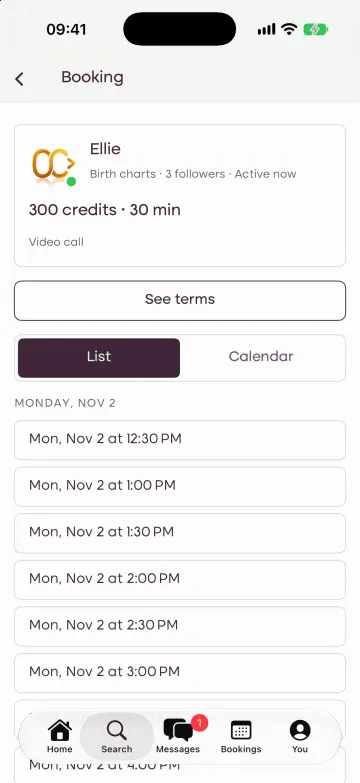
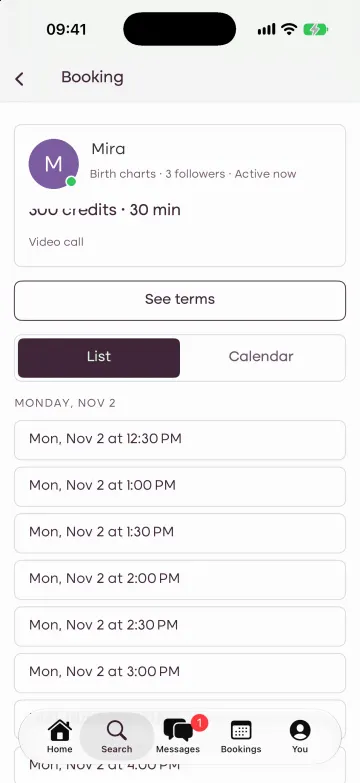
Update multiple screen assets and revise app privacy policy content
Replaced various screen assets in both light and dark themes, including booking, home, personal reading, reader profile, and readers screens. Updated the app privacy policy in English and Burmese to reflect the latest information, including changes to account handling and data sharing practices. Adjusted the SCREENS_VERSION for cache management. These updates aim to enhance visual consistency and ensure compliance with privacy standards.

Changed region(s): [[0.0611, 0.1533, 0.2139, 0.2759], [0.2444, 0.1839, 0.3361, 0.2146]]

diff --git a/src/content/my.js b/src/content/my.js
@@ -84,16 +84,16 @@ export default {
         appPrivacy: {
             title: 'အက်ပ် ကိုယ်ရေးလုံခြုံမှု',
             paragraphs: [
-                'ဒီမူဝါဒက OneZ Codes က လုပ်ဆောင်တဲ့ Lumière iPhone အက်ပ်နဲ့ ဝန်ဆောင်မှုအတွက် ဖြစ်ပါတယ်။ ၁ နိုဝင်ဘာ ၂၀၂၆ မှာ ပြင်ဆင်ထားပါတယ်။ မေးချင်တာ၊ တောင်းဆိုချင်တာ ရှိရင် lumiere@onezcodes.com ကို ဆက်သွယ်ပါ။',
-                'သင့်အကောင့်: username၊ စကားဝှက်နဲ့ ရာသီခွင်ကို သိဖို့ မွေးနေ့။ အီးမေးလ် သို့မဟုတ် ဖုန်းနံပါတ် (ဝင်ရောက်ရန်ကုဒ်နဲ့ စကားဝှက်ပြန်သတ်မှတ်ဖို့)၊ ဇာတာခွင်အတွက် မွေးချိန်နဲ့ မွေးရပ်၊ ပရိုဖိုင်ပုံနဲ့ မိတ်ဆက်စာ ထည့်နိုင်ပါတယ်။ ဧည့်သည်အဖြစ်လည်း စနိုင်ပြီး ဧည့်သည်အကောင့်က သင့်ဖုန်းနဲ့ ချိတ်ထားပါတယ်။',
+                'ဒီမူဝါဒက OneZ Codes က လုပ်ဆောင်တဲ့ Lumière iPhone အက်ပ်နဲ့ ဝန်ဆောင်မှုအတွက် ဖြစ်ပါတယ်။ ၂ နိုဝင်ဘာ ၂၀၂၆ မှာ ပြင်ဆင်ထားပါတယ်။ မေးချင်တာ၊ တောင်းဆိုချင်တာ ရှိရင် lumiere@onezcodes.com ကို ဆက်သွယ်ပါ။',
+                'သင့်အကောင့်: username၊ စကားဝှက်နဲ့ ရာသီခွင်ကို သိဖို့ မွေးနေ့။ အီးမေးလ် သို့မဟုတ် ဖုန်းနံပါတ် (ဝင်ရောက်ရန်ကုဒ်နဲ့ စကားဝှက်ပြန်သတ်မှတ်ဖို့)၊ ဇာတာခွင်အတွက် မွေးချိန်နဲ့ မွေးရပ်၊ ပရိုဖိုင်ပုံနဲ့ မိတ်ဆက်စာ ထည့်နိုင်ပါတယ်။ Apple၊ Google သို့မဟုတ် Facebook နဲ့ ဆက်လုပ်ရင် အဲဒီကနေ အကောင့် id နဲ့ သူတို့ မျှဝေရင် နာမည်နဲ့ အီးမေးလ်ကို ရပါတယ်။ အဲဒီအကောင့်တွေရဲ့ စကားဝှက်ကို ဘယ်တော့မှ မရပါ။ ဧည့်သည်အဖြစ်လည်း စနိုင်ပြီး ဧည့်သည်အကောင့်က သင့်ဖုန်းနဲ့ ချိတ်ထားပါတယ်။',
                 'အက်ပ်ထဲမှာ သင်ဖန်တီးတာတွေ: ပို့စ်၊ မှတ်ချက်၊ စာနဲ့ အသံစာ၊ တင်တဲ့ဓာတ်ပုံ၊ ဗေဒင်ဆရာဆီ ပို့တဲ့မေးခွန်း၊ အမြန်မေးခွန်းအဖြေ၊ ဖူးစာစစ်ချက်၊ ဂိမ်းအဖြေနဲ့ အကြံပြုချက်။ ဗေဒင်ဆရာတွေရဲ့ ပရိုဖိုင်၊ ဈေးနှုန်းနဲ့ ငွေလက်ခံမယ့် ဘဏ် သို့မဟုတ် wallet အချက်အလက်ကိုလည်း ငွေပေးချေဖို့ သိမ်းထားပါတယ်။',
                 'ငွေကြေး: ဝယ်ယူ၊ သုံးစွဲ၊ ရရှိ၊ ပြန်အမ်းထားတဲ့ credit၊ အစီအစဉ်၊ လက်ဆောင်ကတ်နဲ့ ကူပွန်။ ဘဏ်လွှဲနဲ့ ပေးချေရင် ဝန်ထမ်းက အတည်ပြုနိုင်ဖို့ တင်ထားတဲ့ ငွေလွှဲပြေစာပုံကို သိမ်းပါတယ်။ ကတ်နံပါတ်ကို ဘယ်တော့မှ မမြင်၊ မသိမ်းပါ။',
-                'သင့်ဖုန်းနဲ့ အက်ပ်သုံးပုံ: အက်ပ်အမျိုးအစားနဲ့ ဗားရှင်း၊ iOS ဗားရှင်း၊ အက်ပ်က ဖန်တီးတဲ့ စက် id၊ အက်ပ်ဖွင့်ချိန်၊ ဝင်ရောက်ချိန်၊ ပြင်ဆင်ချိန်နဲ့ အဲဒီတောင်းဆိုမှုတွေရဲ့ IP လိပ်စာ။ အကောင့်လုံခြုံဖို့၊ အလွဲသုံးမှု တားဖို့၊ ဖုန်းတစ်လုံးကို အစမ်းအပတ်တစ်ခုပဲ ပေးဖို့နဲ့ ပြဿနာပြင်ဖို့ သုံးပါတယ်။ ဒီမှတ်တမ်းကို ရက် ၃၆၅ ရက်အထိ သိမ်းပါတယ်။',
+                'သင့်ဖုန်းနဲ့ အက်ပ်သုံးပုံ: အက်ပ်အမျိုးအစားနဲ့ ဗားရှင်း၊ iOS ဗားရှင်း၊ အက်ပ်က ဖန်တီးတဲ့ စက် id၊ အသိပေးချက် ခွင့်ပြုရင် push token၊ အက်ပ်ဖွင့်ချိန်၊ ဝင်ရောက်ချိန်၊ ပြင်ဆင်ချိန်နဲ့ အဲဒီတောင်းဆိုမှုတွေရဲ့ IP လိပ်စာ။ အကောင့်လုံခြုံဖို့၊ အလွဲသုံးမှု တားဖို့၊ ဖုန်းတစ်လုံးကို အစမ်းအပတ်တစ်ခုပဲ ပေးဖို့နဲ့ ပြဿနာပြင်ဖို့ သုံးပါတယ်။ ဒီမှတ်တမ်းကို ရက် ၃၆၅ ရက်အထိ သိမ်းပါတယ်။',
                 'AI နဲ့ ရေးတဲ့ ဟောစာတမ်း: ကိုယ်ပိုင်ဟောစာတမ်း၊ ဇာတာနဲ့ ဖူးစာဟောစာတမ်း၊ နေ့စဉ်ပို့စ်တွေ ရေးဖို့ လိုအပ်တဲ့ အချက်အလက် (မွေးနေ့၊ ရာသီ၊ ဂြိုဟ်တည်နေရာနဲ့ သင့်အဖြေတွေ စသည်) ကို OpenAI သို့မဟုတ် Anthropic ဆီ ပို့ပြီး သူတို့က ကျွန်ုပ်တို့အတွက် လုပ်ဆောင်ပေးပါတယ်။ စကားဝှက်၊ အီးမေးလ်၊ ဖုန်းနံပါတ်နဲ့ ငွေပေးချေမှုကို ဘယ်တော့မှ မပို့ပါ။',
                 'ဖုန်းခေါ်ဆိုမှု: ချိန်းဆိုထားတဲ့ အချိန်တွေကို Agora ကနေ အသံ သို့မဟုတ် ဗီဒီယိုနဲ့ ခေါ်ပါတယ်။ ခေါ်ဆိုမှုတွေကို မှတ်တမ်းမတင်ပါ။',
                 'ကြော်ငြာ: Basic အဖွဲ့ဝင်တွေက Google AdMob ကြော်ငြာ မြင်ရပြီး ဘယ်သူမဆို ကြော်ငြာကြည့်ပြီး တစ်ခုခု ဖွင့်နိုင်ပါတယ်။ Google က ကြော်ငြာပြဖို့နဲ့ တိုင်းတာဖို့ သင့်စက်အချက်အလက်ကို သုံးနိုင်ပြီး ဥပဒေအရ လိုအပ်ရင် သဘောတူညီချက် မေးပါတယ်။ အက်ပ်က အခြားကုမ္ပဏီတွေရဲ့ အက်ပ်နဲ့ ဝဘ်ဆိုက်တွေမှာ သင့်ကို ခြေရာခံခွင့် မတောင်းပါ။',
                 'ဘယ်သူ ဘာမြင်လဲ: အခြားအဖွဲ့ဝင်တွေက သင့် username၊ ပုံ၊ မိတ်ဆက်စာ၊ ရာသီနဲ့ အများမြင် ပို့စ်တွေကို မြင်ပါတယ်။ ငွေပေးထားတဲ့ ဗေဒင်ဆရာက သင့် username၊ ရာသီနဲ့ ပို့တဲ့အရာကို မြင်ပြီး ချိန်းဆိုထားတဲ့ ဗေဒင်ဆရာက ချိန်းဆိုမှုကိုပါ မြင်ပါတယ်။ ဗေဒင်ဆရာတွေက သင့်အီးမေးလ်၊ ဖုန်းနံပါတ်၊ မွေးနေ့နဲ့ ငွေပေးချေမှုကို မမြင်ပါ။ Lumière ဝန်ထမ်းတွေက အကူအညီတောင်းတာ ဖြေဖို့၊ ငွေပေးချေမှု အတည်ပြုဖို့နဲ့ တိုင်ကြားချက်တွေ ကိုင်တွယ်ဖို့ အကောင့်အချက်အလက်ကို ကြည့်နိုင်ပါတယ်။',
-                'ကျွန်ုပ်တို့အတွက် အချက်အလက် ကိုင်တွယ်သူတွေ: hosting ဝန်ဆောင်မှု၊ ကုဒ်ပို့တဲ့ အီးမေးလ်နဲ့ SMS ဝန်ဆောင်မှု၊ AI ဟောစာတမ်းအတွက် OpenAI နဲ့ Anthropic၊ ဖုန်းခေါ်ဆိုမှုအတွက် Agora၊ ကြော်ငြာအတွက် Google AdMob။ ဥပဒေအရ လိုအပ်မှသာ အာဏာပိုင်တွေကို မျှဝေပါတယ်။ ကိုယ်ရေးအချက်အလက်ကို မရောင်းပါ။',
+                'ကျွန်ုပ်တို့အတွက် အချက်အလက် ကိုင်တွယ်သူတွေ: hosting ဝန်ဆောင်မှု၊ ကုဒ်ပို့တဲ့ အီးမေးလ်နဲ့ SMS ဝန်ဆောင်မှု၊ AI ဟောစာတမ်းအတွက် OpenAI နဲ့ Anthropic၊ ဖုန်းခေါ်ဆိုမှုအတွက် Agora၊ ကြော်ငြာအတွက် Google AdMob၊ Apple၊ Google နဲ့ Meta (Facebook) နဲ့ ဝင်ရင် အဲဒီကုမ္ပဏီတွေ၊ အသိပေးချက် ပို့ဖို့ Apple ရဲ့ push ဝန်ဆောင်မှု။ ဥပဒေအရ လိုအပ်မှသာ အာဏာပိုင်တွေကို မျှဝေပါတယ်။ ကိုယ်ရေးအချက်အလက်ကို မရောင်းပါ။',
                 'သင့်ရွေးချယ်ခွင့်: Settings မှာ ပရိုဖိုင်ပြင်နိုင်၊ ကိုယ့်အဖြေကို ဘယ်သူမြင်မလဲ ရွေးနိုင်၊ ဘယ်သူ့ကိုမဆို ပိတ်ပင် သို့မဟုတ် တိုင်ကြားနိုင်၊ သတင်းအီးမေးလ် ပိတ်နိုင်ပြီး Settings ထဲမှာ ကိုယ့်အကောင့်ကို ကိုယ်တိုင် ဖျက်နိုင်ပါတယ်။ ဖျက်လိုက်ရင် ပရိုဖိုင်၊ ပို့စ်၊ စာ၊ ဖွင့်ထားတဲ့ ဟောစာတမ်းနဲ့ ကျန်တဲ့ credit တွေ ပျက်သွားပါမယ်။ ဝယ်ယူမှုမှတ်တမ်းကို စာရင်းကိုင်စည်းမျဉ်းအရ လိုသလောက် သိမ်းထားပြီး အသုံးပြုမှုမှတ်တမ်းက သူ့အလိုလို သက်တမ်းကုန်ပါတယ်။',
                 'Lumière ကို အသက် ၁၃ နှစ်အောက် ကလေးတွေအတွက် မရည်ရွယ်ပါ။ ဟောစာတမ်းတွေက တွေးတောဖို့နဲ့ ပျော်ရွှင်ဖို့သာ ဖြစ်ပြီး ဆေး၊ ဥပဒေ၊ ငွေကြေးဆိုင်ရာ အကြံဉာဏ် မဟုတ်ပါ။',
                 'ဒီမူဝါဒ ပြောင်းရင် အထက်က ရက်စွဲကို ပြင်ပြီး မပြောင်းခင် အက်ပ်ထဲမှာ အသိပေးပါမယ်။',
@@ -252,10 +252,10 @@ export default {
                     { icon: 'sparkle', title: 'Destiny Matrix', body: 'မွေးနေ့ကနေ တွက်တဲ့ ကိုယ်ပိုင် Matrix — အဆင်ပြေဇုန်၊ ဘဝရည်ရွယ်ချက်၊ ကံကြွေး၊ ငွေကြေး၊ အချစ်နဲ့ ကိုယ်ပိုင်နှစ်။' },
                     { icon: 'compass', title: 'မဟာဘုတ်', body: 'မွေးနေ့ (နေ့နံ) ကနေ တွက်တဲ့ မြန်မာ့ဗေဒင် — တိရစ္ဆာန်၊ အရပ်နဲ့ ဂြိုဟ်။' },
                     { icon: 'star', title: 'ဘဝ အမြင်များ', body: 'ကိုက်ညီတဲ့ အလုပ်၊ ငွေကြေး ကိုင်တွယ်ပုံ၊ ကျန်းမာရေး၊ မိသားစုနဲ့ နေထိုင်ဖွယ်ရှိတဲ့ နေရာ။' },
+                    { icon: 'calendar', title: 'မွေးနှစ်', body: 'မွေးနေ့ကနေ နောက်မွေးနေ့အထိ ကိုယ့်တစ်နှစ်တာ — ဦးဆောင်တဲ့ဂြိုဟ်၊ အလှည့်အပြောင်းတွေနဲ့ ကောင်းတဲ့လ၊ သတိထားရမယ့်လ။' },
                     { icon: 'bars', title: 'ဘဝ Timeline', body: 'အသက် ၁၆ ကနေ ၇၅ အထိ ငွေကြေး၊ အချစ်၊ အလုပ်နဲ့ အိမ်အတွက်။ နှစ်တစ်နှစ်ကို နှိပ်ပြီး ဖတ်ပါ။' },
                     { icon: 'heart', title: 'ဖူးစာ', body: 'မွေးနေ့နှစ်ခုရဲ့ လိုက်ဖက်မှု၊ ဖူးစာရှင် ဟောစာတမ်းနဲ့ အတူ ကောင်းတဲ့ရက်များ။' },
                     { icon: 'clock', title: 'မွေးချိန် ခန့်မှန်းခြင်း', body: 'မေးခွန်းအနည်းငယ် ဖြေပြီး မသိတဲ့ မွေးချိန်ကို ခန့်မှန်းပါ။ Plus က ဘဝဖြစ်ရပ်တွေနဲ့ ပိုနီးစပ်အောင် တွက်ပေးပါတယ်။' },
-                    { icon: 'image', title: 'လစဉ် နောက်ခံပုံ', body: 'ကံကောင်း နံပါတ်နဲ့ အရောင်တွေကနေ ဆွဲထားတဲ့ Lock နဲ့ Home screen ပုံ လတိုင်း အသစ်။ ပုံစံ ၂၀ ကျော်။' },
                 ],
             },
             {
@@ -321,7 +321,7 @@ export default {
                 note: 'အသင်းဝင်အသစ်များအတွက်၊ ပြီးရင် လစဉ်။ အခမဲ့ရက်တွေ ကုန်ရင် Basic ကို အလိုအလျောက် ပြန်ရောက်ပြီး ဘာမှ ကောက်ခံမှာ မဟုတ်ပါ။',
                 featured: true,
                 points: [
-                    'ဒီလနဲ့ ဒီနှစ် — ကိုယ့်ရဲ့ ကောင်းတဲ့နေ့၊ သတိထားရမယ့်နေ့နဲ့ တစ်နှစ်တာ အဓိက အကြောင်းအရာများ',
+                    'ဒီလ၊ ဒီနှစ်နဲ့ မွေးနှစ် — ကိုယ့်ရဲ့ ကောင်းတဲ့နေ့၊ သတိထားရမယ့်နေ့၊ အလှည့်အပြောင်းနဲ့ တစ်နှစ်တာ အဓိက အကြောင်းအရာများ',
                     'ဖူးစာ အပြည့်အစုံ — ရေးထားတဲ့ ဟောစာတမ်း၊ Moon နဲ့ Rising၊ အတူ ကောင်းတဲ့ရက်များ',
                     'မိသားစု၊ သူငယ်ချင်းတွေရဲ့ ဇာတာ',
                     `ခရက်ဒစ် သုံးတိုင်း ${n(p.plusDiscountPercent)}% လျှော့`,
@@ -334,7 +334,7 @@ export default {
         eyebrow: 'ဘယ်လို အလုပ်လုပ်လဲ',
         title: 'မွေးနေ့ကနေ ဟောစာတမ်းအထိ တစ်မိနစ်အတွင်း',
         items: [
-            { title: 'အကောင့်ဖွင့်ပါ', body: 'အီးမေးလ် ဒါမှမဟုတ် ဖုန်း၊ username နဲ့ မွေးနေ့ — ဒါမှမဟုတ် Apple / Google ဖြင့်၊ guest အနေနဲ့ ဆက်လုပ်ပါ။' },
+            { title: 'အကောင့်ဖွင့်ပါ', body: 'အီးမေးလ်၊ username နဲ့ မွေးနေ့ — ဒါမှမဟုတ် Apple / Google / Facebook ဖြင့်၊ guest အနေနဲ့ ဆက်လုပ်ပါ။' },
             { title: 'ရာသီကို အတည်ပြုပါ', body: 'မွေးနေ့ကနေ ရာသီကို တွက်ပေးပါတယ်။ မှန်မမှန် စစ်ကြည့်ပါ။' },
             { title: 'လစဉ်ဟောစာတမ်း ဖတ်ပါ', body: 'ကိုယ့်ဟောစာတမ်းက Home မှာ ပထမဆုံး ရှိပါတယ်။' },
             { title: 'ဗေဒင်ဆရာကို မေးပါ', body: 'ပိုသိချင်ရင် ခရက်ဒစ်ဖြင့် ဗေဒင်ဆရာကို မေးပါ။' },
@@ -355,9 +355,9 @@ export default {
                 screen: 'onboarding',
                 title: 'အကောင့်ဖွင့်ပါ',
                 where: 'ပထမ စခရင် › Create account',
-                body: 'အီးမေးလ် ဒါမှမဟုတ် ဖုန်းနဲ့ စာရင်းသွင်းပြီး နာမည်၊ ရာသီ avatar နဲ့ username ရွေးကာ မွေးနေ့ထည့်ပါ။ ဒါမှမဟုတ် Apple / Google နဲ့ ဆက်လုပ်ပါ။',
+                body: 'အီးမေးလ်နဲ့ စာရင်းသွင်းပြီး နာမည်၊ ရာသီ avatar နဲ့ username ရွေးကာ မွေးနေ့ထည့်ပါ။ ဒါမှမဟုတ် Apple / Google / Facebook နဲ့ ဆက်လုပ်ပါ။',
                 tips: [
-                    'အီးမေးလ် ဒါမှမဟုတ် ဖုန်းကို အတည်ပြုဖို့ ကုဒ်တစ်ခု ပို့ပေးပါမယ်။',
+                    'အီးမေးလ်ကို အတည်ပြုဖို့ ကုဒ်တစ်ခု ပို့ပေးပါမယ်။',
                     'သူငယ်ချင်းဆီက ဖိတ်ကြားကုဒ် ရထားလား — နောက်ဆုံးအဆင့်မှာ ထည့်ပါ။',
                     'ကြည့်ရုံပဲလား — မွေးနေ့တစ်ခုတည်းနဲ့ guest အနေနဲ့ ဆက်လုပ်ပြီး နောက်မှ အီးမေးလ်နဲ့ သိမ်းပါ။',
                 ],
@@ -387,11 +387,11 @@ export default {
                 screen: 'home',
                 title: 'Home မှ စတင်ပါ',
                 where: 'Home tab',
-                body: 'လစဉ်ဟောစာတမ်း၊ Lumière Today၊ Quick question၊ ပါတီဂိမ်းတွေနဲ့ Follow လုပ်ထားတဲ့ ဗေဒင်ဆရာတွေရဲ့ ပို့စ်တွေ တစ်နေရာတည်းမှာ။',
+                body: 'ကိုယ့်ရာသီအတွက် Lumière ရဲ့ ပုံပါပို့စ်တွေ၊ ဒီနေ့ ကောင်းကင်၊ ကိုယ့်တစ်နှစ်တာ အကျဉ်း၊ Quick question၊ ပါတီဂိမ်းတွေနဲ့ Follow လုပ်ထားတဲ့ ဗေဒင်ဆရာတွေရဲ့ ပို့စ်တွေ တစ်နေရာတည်းမှာ။ အပေါ်ဆုံးက bar ကနေ ကိုယ့်အတွေးကို မျှဝေပါ။',
                 tips: [
                     'ခေါင်းလောင်းဘေးက မီးတောက်က နေ့စဉ် streak ပါ — မပြတ်အောင် ဒီနေ့ကို claim လုပ်ပါ။',
                     'ခေါင်းလောင်းထဲမှာ အသိပေးချက်တွေ ရှိပါတယ် — ရာသီအတွက် ဟောစာတမ်းအသစ်၊ အဖြေနဲ့ ချိန်းဆိုမှုများ။',
-                    'အပေါ်ဆုံးက ရာသီ၊ ဓာတ်နဲ့ အထူးပြုနယ်ပယ်တွေကနေ လေ့လာပါ။',
+                    'feed ထဲက ရာသီ၊ ဓာတ်နဲ့ အထူးပြုနယ်ပယ် rail တွေကနေ လေ့လာပါ။',
                 ],
             },
             {

diff --git a/src/content/en.js b/src/content/en.js
@@ -81,16 +81,16 @@ export default {
         appPrivacy: {
             title: 'App privacy',
             paragraphs: [
-                'This policy covers the Lumière iPhone app and its service, run by OneZ Codes. Updated 1 November 2026. Questions or requests: lumiere@onezcodes.com.',
-                'Your account: a username, a password, and your date of birth, which gives your sign. You can add an email or phone number (for sign-in codes and password reset), a birth time and birthplace (for your birth chart), a profile photo, and a short bio. You can also start as a guest; a guest account is tied to your phone.',
+                'This policy covers the Lumière iPhone app and its service, run by OneZ Codes. Updated 2 November 2026. Questions or requests: lumiere@onezcodes.com.',
+                'Your account: a username, a password, and your date of birth, which gives your sign. You can add an email or phone number (for sign-in codes and password reset), a birth time and birthplace (for your birth chart), a profile photo, and a short bio. If you continue with Apple, Google or Facebook, we receive an account id from them and, when they share it, your name and email; we never get your password for those accounts. You can also start as a guest; a guest account is tied to your phone.',
                 'What you make in the app: posts, comments, messages and voice messages, photos you upload, questions you send to readers, answers to quick questions, match checks, game answers, and feedback. Readers also keep their profile, prices, and payout details (bank or wallet) so we can pay them.',
                 'Money: credits bought, spent, earned and refunded, plans, gift cards and coupons. When you pay by bank transfer, we keep the payment slip picture you upload so staff can approve it. We never see or store card numbers.',
-                'Your phone and use of the app: the app type and version, iOS version, a device id the app creates, when you open the app, sign in and make changes, and the IP address of those requests. We use this to keep accounts safe, stop abuse, give one welcome week per phone, and fix problems. This activity log is kept for up to 365 days.',
+                'Your phone and use of the app: the app type and version, iOS version, a device id the app creates, a push token if you allow notifications, when you open the app, sign in and make changes, and the IP address of those requests. We use this to keep accounts safe, stop abuse, give one welcome week per phone, and fix problems. This activity log is kept for up to 365 days.',
                 'Readings written with AI: to write personal readings, chart and match readings and daily posts, we send the details they need (such as birth dates, signs, chart positions and your answers) to OpenAI or Anthropic, who process them for us. Your password, email, phone number and payments are never sent.',
                 'Calls: booked sessions run as voice or video calls through Agora, which carries the call. We do not record calls.',
                 'Ads: members on Basic see ads from Google AdMob, and anyone can watch an ad to unlock something. Google may use information about your device to show and measure ads, and asks for your consent where the law requires it. The app does not ask to track you across other companies’ apps and websites.',
                 'Who sees what: other members see your username, photo, bio, sign and what you post publicly. A reader you pay sees your username, sign and what you send them; a reader you book also sees the session. Readers do not see your email, phone number, date of birth or payments. Lumière staff can see account details to answer support requests, approve payments and handle reports.',
-                'Others who handle data for us: our hosting provider, email and SMS senders for codes, OpenAI and Anthropic for AI readings, Agora for calls, and Google AdMob for ads. We share data with authorities only when the law requires it. We do not sell personal data.',
+                'Others who handle data for us: our hosting provider, email and SMS senders for codes, OpenAI and Anthropic for AI readings, Agora for calls, Google AdMob for ads, Apple, Google and Meta (Facebook) when you sign in with them, and Apple’s push service to deliver notifications. We share data with authorities only when the law requires it. We do not sell personal data.',
                 'Your choices: edit your profile in Settings, choose who sees your answers, block or report anyone, switch off news emails, and delete your account yourself in Settings. Deleting removes your profile, posts, messages, unlocked readings and remaining credits. Purchase records are kept as long as accounting rules require, and activity log entries expire on their own.',
                 'Lumière is not for children under 13. Readings are for reflection and fun, not medical, legal or financial advice.',
                 'When this policy changes, we update the date above and tell you in the app before the change applies.',
@@ -249,10 +249,10 @@ export default {
                     { icon: 'sparkle', title: 'Destiny Matrix', body: 'Your own matrix from your birthday: comfort zone, purpose, karmic tail, money, love and your personal year.' },
                     { icon: 'compass', title: 'Mahabote', body: 'Myanmar astrology from your birth weekday: animal, direction and planet.' },
                     { icon: 'star', title: 'Life insights', body: 'Work that suits you, how you handle money, health, family and where you’re likely to live.' },
+                    { icon: 'calendar', title: 'Birthday year', body: 'Your year from one birthday to the next: the planet leading it, turning points, and your best and careful months.' },
                     { icon: 'bars', title: 'Life timeline', body: 'Every age from 16 to 75 for money, love, career and home. Tap a year to read it.' },
                     { icon: 'heart', title: 'Match', body: 'Compatibility for two birthdays, a destined partner reading and good days together.' },
                     { icon: 'clock', title: 'Birth time estimate', body: 'Answer a few questions to estimate an unknown birth time. Plus adds life events for a closer one.' },
-                    { icon: 'image', title: 'Monthly wallpapers', body: 'A new lock and home screen each month, drawn from your lucky numbers and colours. 20+ styles.' },
                 ],
             },
             {
@@ -314,7 +314,7 @@ export default {
                 note: 'For new members, then monthly. When the free days end you go back to Basic by yourself — nothing is charged.',
                 featured: true,
                 points: [
-                    'This month and This year: your best and take-care days, and the year’s big themes',
+                    'This month, This year and your birthday year: your best and take-care days, turning points and the year’s big themes',
                     'Birth chart match in full: the written reading, Moon & Rising and good days together',
                     'Charts for family and friends',
                     `${p.plusDiscountPercent}% off every credit spend`,
@@ -327,7 +327,7 @@ export default {
         eyebrow: 'How it works',
         title: 'From birthday to reading in a minute',
         items: [
-            { title: 'Sign up', body: 'Email or phone, a username and your birthday — or continue with Apple or Google, or as a guest.' },
+            { title: 'Sign up', body: 'Email, a username and your birthday — or continue with Apple, Google or Facebook, or as a guest.' },
             { title: 'Confirm your sign', body: 'We work out your sign from your birthday. You check it.' },
             { title: 'Read your month', body: 'Your monthly reading is first on Home.' },
             { title: 'Ask a reader', body: 'When you want more, ask a reader with credits.' },
@@ -348,9 +348,9 @@ export default {
                 screen: 'onboarding',
                 title: 'Create your account',
                 where: 'First screen › Create account',
-                body: 'Sign up with email or phone, pick a name, a zodiac avatar and a username, and enter your birthday. Or continue with Apple or Google.',
+                body: 'Sign up with email, pick a name, a zodiac avatar and a username, and enter your birthday. Or continue with Apple, Google or Facebook.',
                 tips: [
-                    'We send a code to confirm your email or phone.',
+                    'We send a code to confirm your email.',
                     'Got an invitation code from a friend? Add it on the last step.',
                     'Just looking? Continue as a guest with only your birthday, and save the account with your email later.',
                 ],
@@ -380,11 +380,11 @@ export default {
                 screen: 'home',
                 title: 'Start on Home',
                 where: 'Home tab',
-                body: 'Your reading for the month, Lumière Today, quick questions, party games and the feed from readers you follow, in one scroll.',
+                body: 'Lumière’s picture posts for your sign, your sky today, your year at a glance, quick questions, party games and the feed from readers you follow, in one scroll. Share a thought from the bar at the top.',
                 tips: [
                     'The flame beside the bell is your daily streak: claim today to keep it going.',
                     'The bell holds your notifications: new readings for your sign, answers and bookings.',
-                    'Explore signs, elements and specialties from the rails at the top.',
+                    'Explore signs, elements and specialties from the rails in the feed.',
                 ],
             },
             {

diff --git a/src/components/Hero.jsx b/src/components/Hero.jsx
@@ -67,8 +67,8 @@ export default function Hero() {
                 </div>
                 <div className="hero-visual">
                     <ZodiacWheel className="hero-wheel" />
-                    <PhoneFrame screen="home" alt={lang === 'my' ? 'Lumière ပင်မစာမျက်နှာ' : 'Lumière home screen'} className="hero-phone hero-phone-back" eager />
-                    <PhoneFrame screen="my-reading" alt={lang === 'my' ? 'Lumière လစဉ်ဟောစာတမ်း' : 'Lumière monthly reading'} className="hero-phone hero-phone-front" eager />
+                    <PhoneFrame screen="my-reading" alt={lang === 'my' ? 'Lumière လစဉ်ဟောစာတမ်း' : 'Lumière monthly reading'} className="hero-phone hero-phone-back" eager />
+                    <PhoneFrame screen="home" alt={lang === 'my' ? 'Lumière ပင်မစာမျက်နှာ' : 'Lumière home screen'} className="hero-phone hero-phone-front" eager />
                     <span className="glass-chip glass-chip-1">
                         <span className="glass-dot" style={{ background: 'var(--air)' }} />
                         <span>{hero.floats.reading}</span>

diff --git a/src/data/screens.js b/src/data/screens.js
@@ -2,7 +2,7 @@
  * Bump after recapturing screens: it goes on every screenshot URL, so browsers and Cloudflare
  * (which keep /screens/* for a week) fetch the new pictures instead of the cached ones.
  */
-export const SCREENS_VERSION = '2026-10-27';
+export const SCREENS_VERSION = '2026-11-02b';
 
 /** Screens with a dark-appearance capture in public/screens/dark (see scripts/optimize-screens.sh). */
 export const DARK_SCREENS = new Set([
